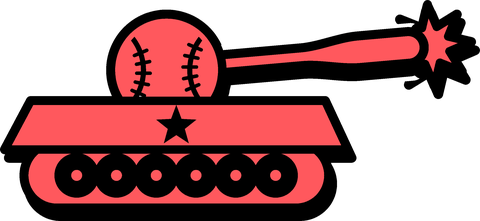
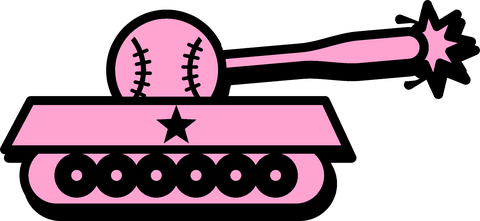
Battle Shop: the tank in bubblegum pink (#10)
The tank beside BATTLE over SHOP, in Battle Shop's header, footer and loading screen, is now light bubblegum pink (#FFA3D1) with its black outlines kept. The app icon stays coral.

diff --git a/tools/brand/app_icon.py b/tools/brand/app_icon.py
@@ -11,8 +11,9 @@
 # android/app/src/main/res/mipmap-*/ic_launcher.png  the square icon
 # android/app/src/main/res/mipmap-*/ic_launcher_foreground.png  the adaptive
 #   icon's tank (Android 8+), on @color/ic_launcher_background
-# assets/brand/tank.png  the tank alone, 480 px wide, beside Battle Shop's
-#   name in its header (ShopMark in lib/screens/merch.dart)
+# assets/brand/tank.png  the tank alone, 480 px wide and bubblegum pink,
+#   beside Battle Shop's name in its header and footer (ShopMark in
+#   lib/screens/merch.dart)
 import json
 from pathlib import Path
 
@@ -56,7 +57,20 @@ for density, scale in {"mdpi": 1, "hdpi": 1.5, "xhdpi": 2, "xxhdpi": 3, "xxxhdpi
     save(icon, round(48 * scale), res / f"mipmap-{density}/ic_launcher.png")
     save(fg, round(108 * scale), res / f"mipmap-{density}/ic_launcher_foreground.png", rgb=False)
 
-# In the app: the tank on nothing, small enough to ship.
-tank.resize((480, round(tank.height * 480 / tank.width)), Image.LANCZOS).save(
+# In the app: the tank on nothing, small enough to ship, in Battle Shop's
+# bubblegum pink. Every pixel of tank-coral.png is the coral, black, or a
+# blend of the two, so its red says how much coral it holds.
+PINK = (0xFF, 0xA3, 0xD1)
+
+
+def recolor(px):
+    r, g, b, a = px
+    t = r / 0xFF
+    return (round(PINK[0] * t), round(PINK[1] * t), round(PINK[2] * t), a)
+
+
+pink = Image.new("RGBA", tank.size)
+pink.putdata([recolor(px) for px in tank.getdata()])
+pink.resize((480, round(tank.height * 480 / tank.width)), Image.LANCZOS).save(
     ROOT / "assets/brand/tank.png", optimize=True
 )

diff --git a/README.md b/README.md
@@ -79,7 +79,7 @@ Parents pay the owner's Venmo or Cash App (set in Admin, Payment settings) with 
 Merch (`/merch`, and a section on Home) sells the shirts in the Battle Baseball Shopify store, `t03zrq-mv.myshopify.com`, which NinjaPOD prints and ships. The app reads the products, collections, prices and sizes from Shopify's Storefront API (`lib/data/shop.dart`). Shirts and collections are managed in Shopify admin: each collection with shirts in it becomes a section of the shop, except the "Home page" collection. No token is needed. To use one, build with `--dart-define=SHOPIFY_STOREFRONT_TOKEN=...`. The API version is `ShopConfig.apiVersion` (`2026-10`); Shopify keeps each version working for at least a year, so move it up once a year.
 
 - While the store's password page is on, Shopify reports the store as locked and Merch shows **Coming soon**. Turning the password page off opens the shop in the app, with no deploy.
-- **Battle Shop** (https://shop.getbattleplan.app) is the same shop on a site of its own, for sharing where the showcase site would be in the way. It shows whatever Merch shows, straight from Shopify. In place of the app's tabs and top bar it is dressed as a storefront: a band across the top of every page with its own mark (the baseball tank off the shirts, `assets/brand/tank.png`, beside BATTLE over SHOP), the Cart and a gold stripe; on its first page a ticker and a headline, "Shirts and team gear.", on slowly turning rays, with the shop's lowest price on a starburst; headings on a stroke of gold marker; each price on a gold tag; the shop's other shirts under each shirt's page; and a footer. The ticker, rays and starburst stand still for anyone who has asked their device for less motion. Merch in the app has none of those. Nothing on it leads to Home or any other Battle Baseball screen; those screens have no address there at all. It is the same build of the app: `tools/build_hosting.mjs` makes a second site folder, `build/hosting-shop`, whose `index.html` carries Battle Shop's title, description, link preview (`web/og-shop.png`, drawn from `tools/brand/og-shop.html`) and a loading screen that draws the same band, plus `<meta name="bb-site" content="shop">`. The app reads that (`lib/data/site.dart`) and uses Battle Shop's routes. The screens are Merch's own (`lib/screens/merch.dart`); `ShopSite` tells them which of the two they are showing in, and `BattleShopShell` is the frame. Its cart is its own, since a browser keeps each site's storage apart. To run it locally: `flutter run -d chrome --dart-define=SITE=shop`.
+- **Battle Shop** (https://shop.getbattleplan.app) is the same shop on a site of its own, for sharing where the showcase site would be in the way. It shows whatever Merch shows, straight from Shopify. In place of the app's tabs and top bar it is dressed as a storefront: a band across the top of every page with its own mark (the baseball tank off the shirts in bubblegum pink, `assets/brand/tank.png`, beside BATTLE over SHOP), the Cart and a gold stripe; on its first page a ticker and a headline, "Shirts and team gear.", on slowly turning rays, with the shop's lowest price on a starburst; headings on a stroke of gold marker; each price on a gold tag; the shop's other shirts under each shirt's page; and a footer. The ticker, rays and starburst stand still for anyone who has asked their device for less motion. Merch in the app has none of those. Nothing on it leads to Home or any other Battle Baseball screen; those screens have no address there at all. It is the same build of the app: `tools/build_hosting.mjs` makes a second site folder, `build/hosting-shop`, whose `index.html` carries Battle Shop's title, description, link preview (`web/og-shop.png`, drawn from `tools/brand/og-shop.html`) and a loading screen that draws the same band, plus `<meta name="bb-site" content="shop">`. The app reads that (`lib/data/site.dart`) and uses Battle Shop's routes. The screens are Merch's own (`lib/screens/merch.dart`); `ShopSite` tells them which of the two they are showing in, and `BattleShopShell` is the frame. Its cart is its own, since a browser keeps each site's storage apart. To run it locally: `flutter run -d chrome --dart-define=SITE=shop`.
 - The cart lives on the device: in the browser's `localStorage` under `bb.cart`, and in memory in the iOS and Android apps, where it lasts while the app is open. **Check out** makes a Shopify cart and opens Shopify's checkout page; on the web it takes the tab. Shopify deletes a cart once its order is placed, so when the buyer comes back the app sees that and takes the bought shirts out of its cart. Prices and sold-out sizes are checked again each time the cart opens.
 
 ## Color schemes
